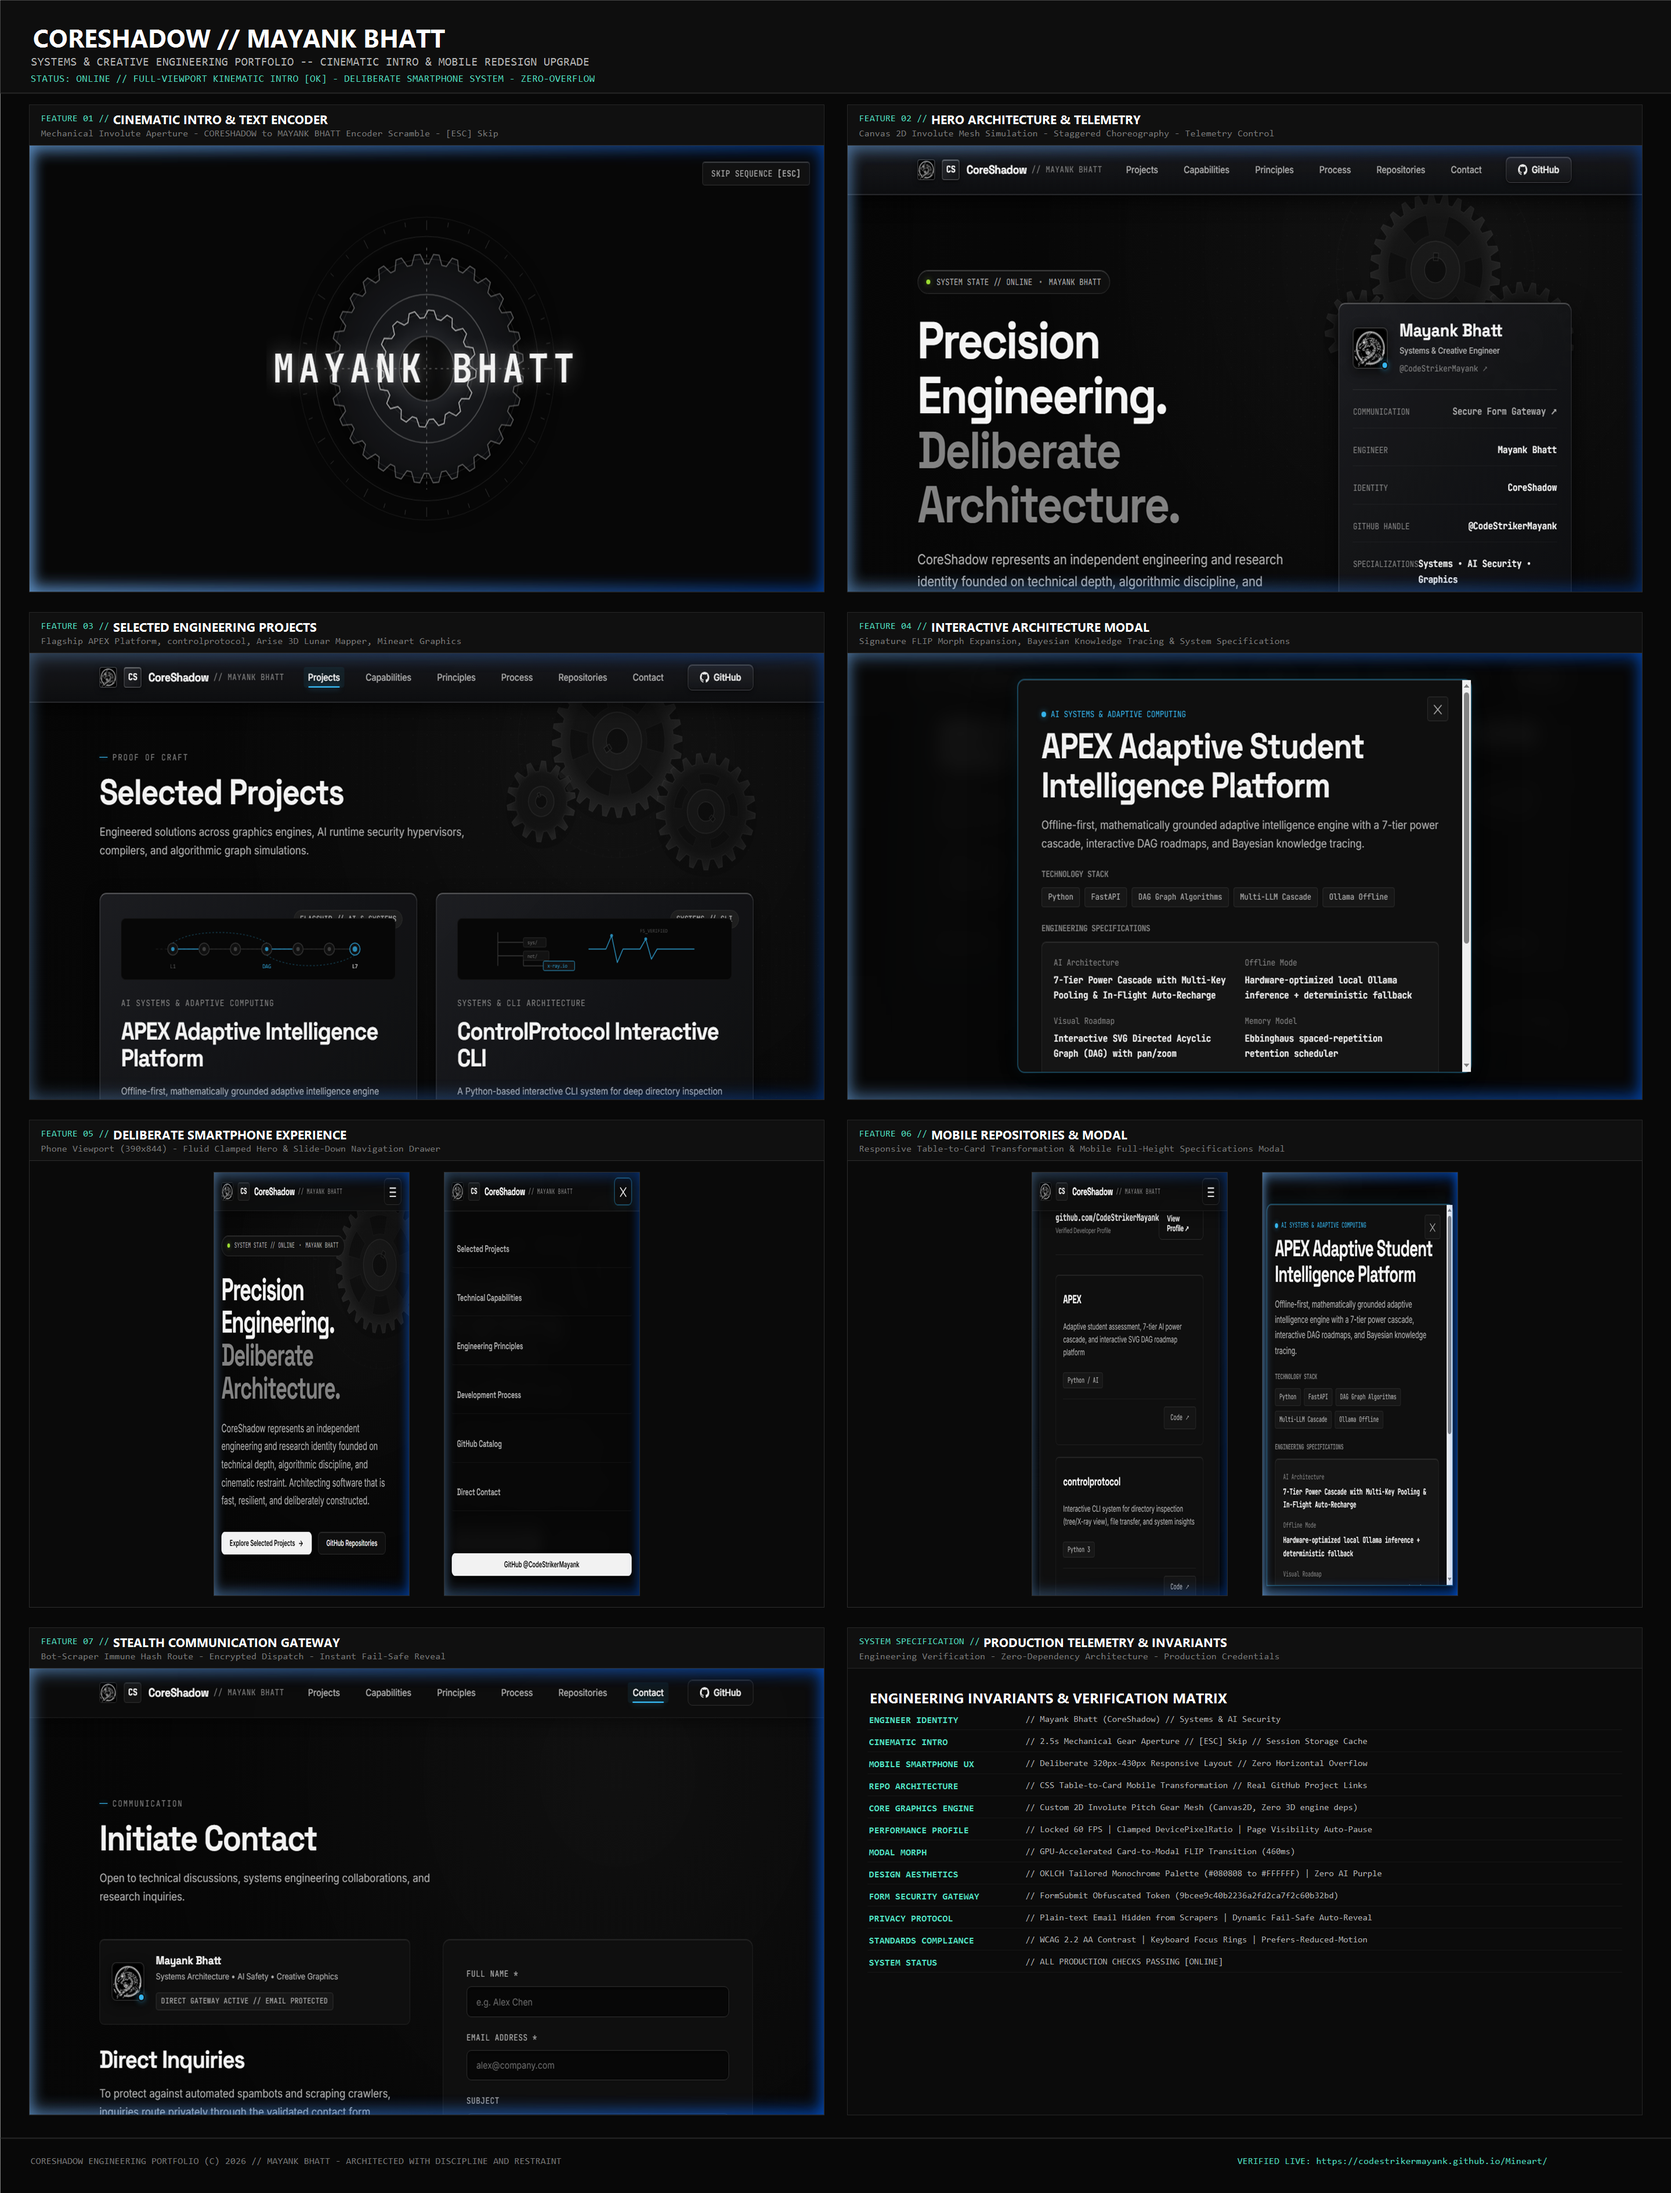
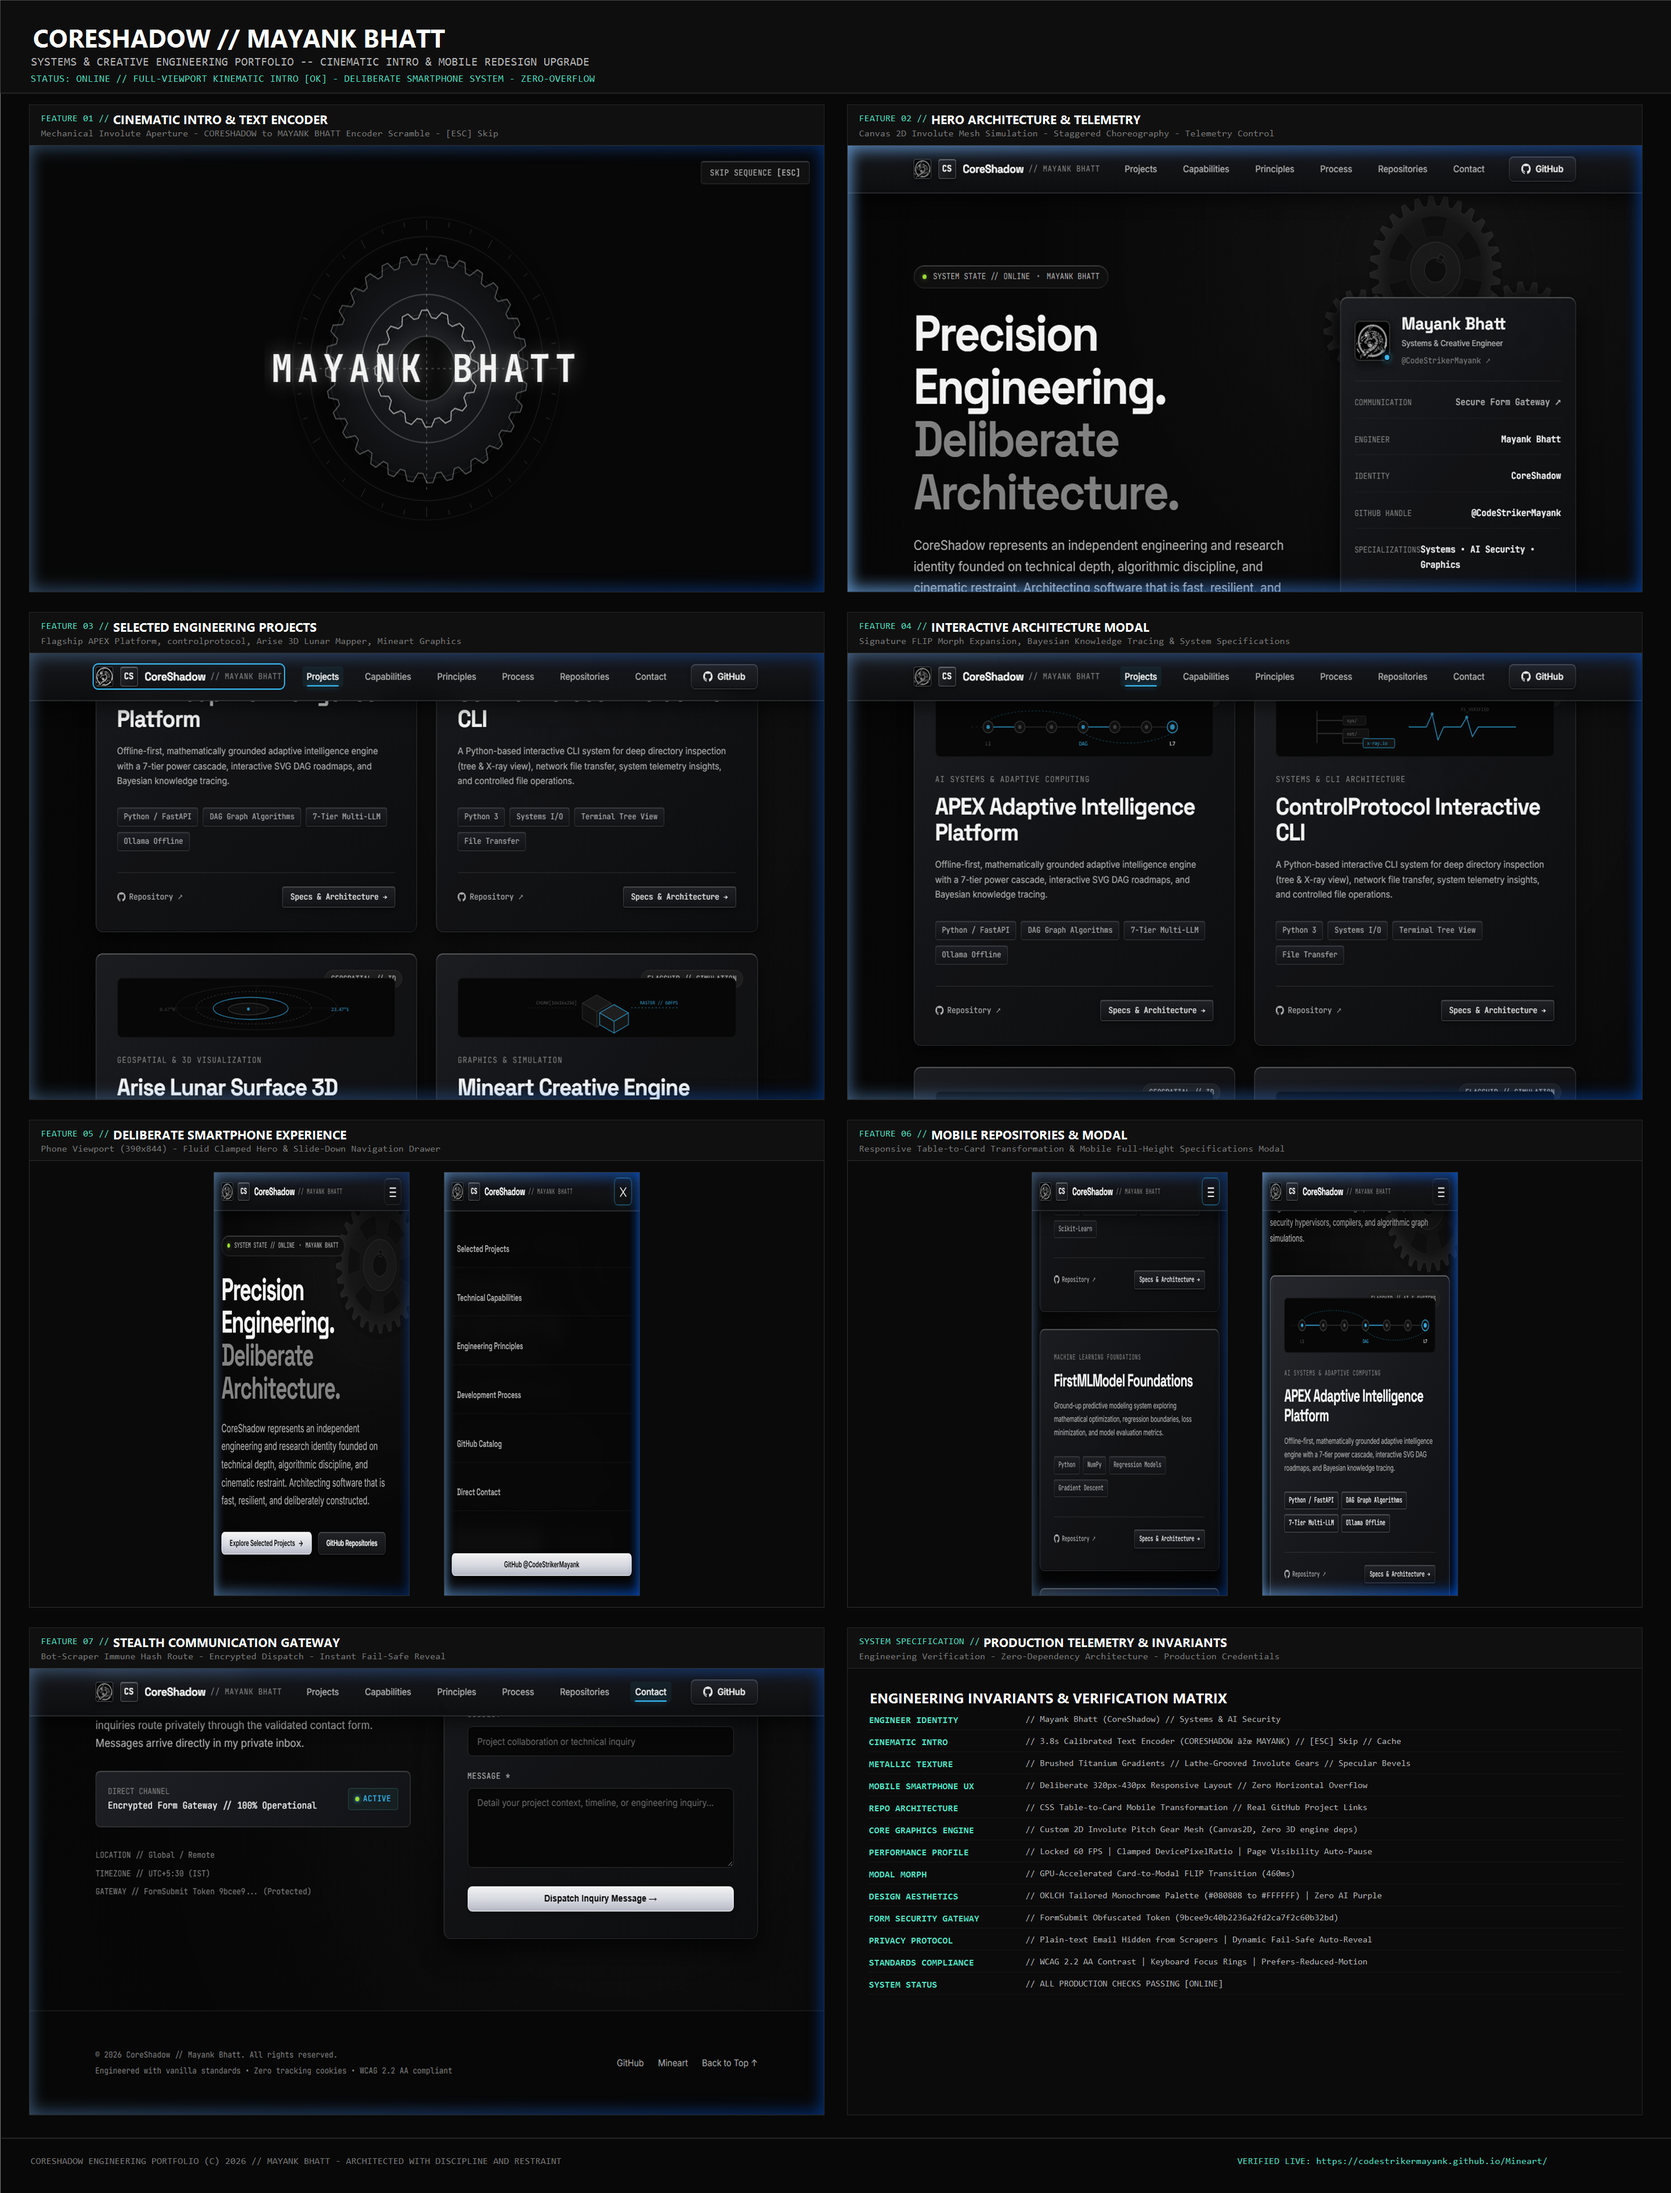
docs(showcase): update master feature showcase image with latest metallic UI and 3.8s intro screenshots

diff --git a/README.md b/README.md
@@ -9,6 +9,10 @@
 > **"Precision. Depth. Restraint. Motion."**  
 > CoreShadow is the professional engineering portfolio and independent research identity of **Mayank Bhatt ([@CodeStrikerMayank](https://github.com/CodeStrikerMayank))**.
 
+<p align="center">
+  <img src="assets/portfolio_showcase_master.png" alt="CoreShadow Engineering Portfolio Feature Showcase" width="100%">
+</p>
+
 ---
 
 ## ⚙ Architecture & Design Philosophy
